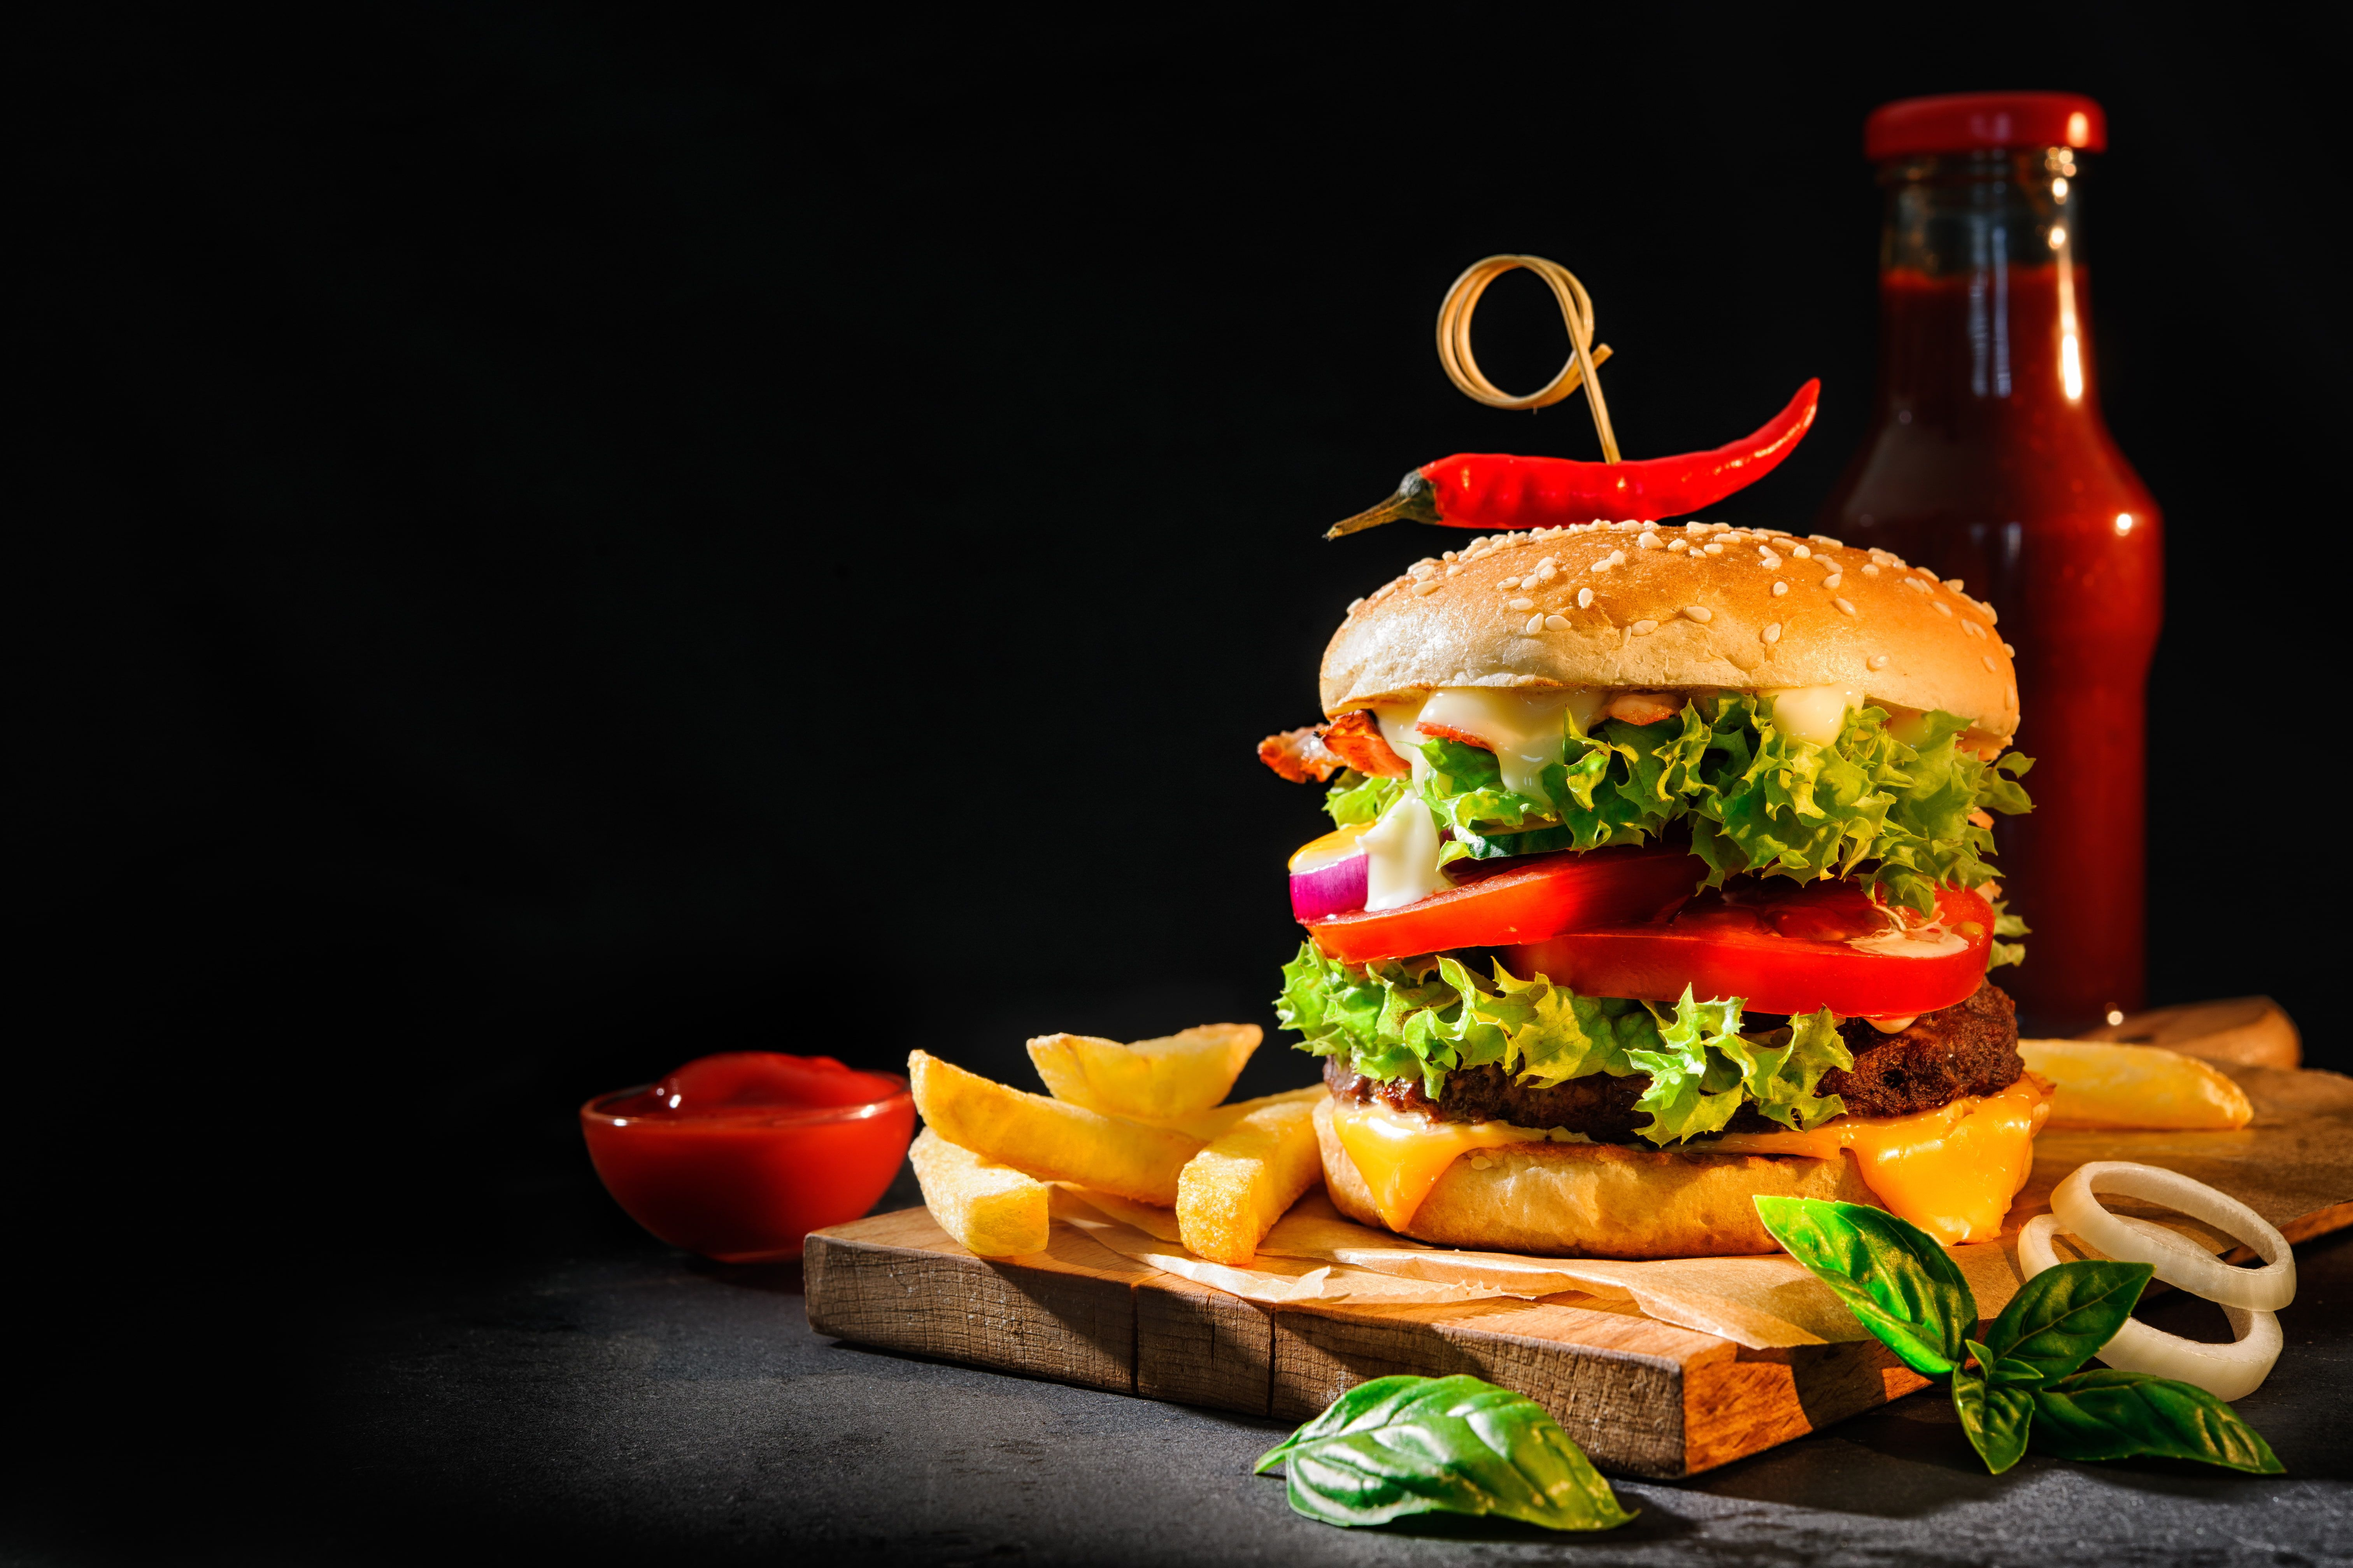
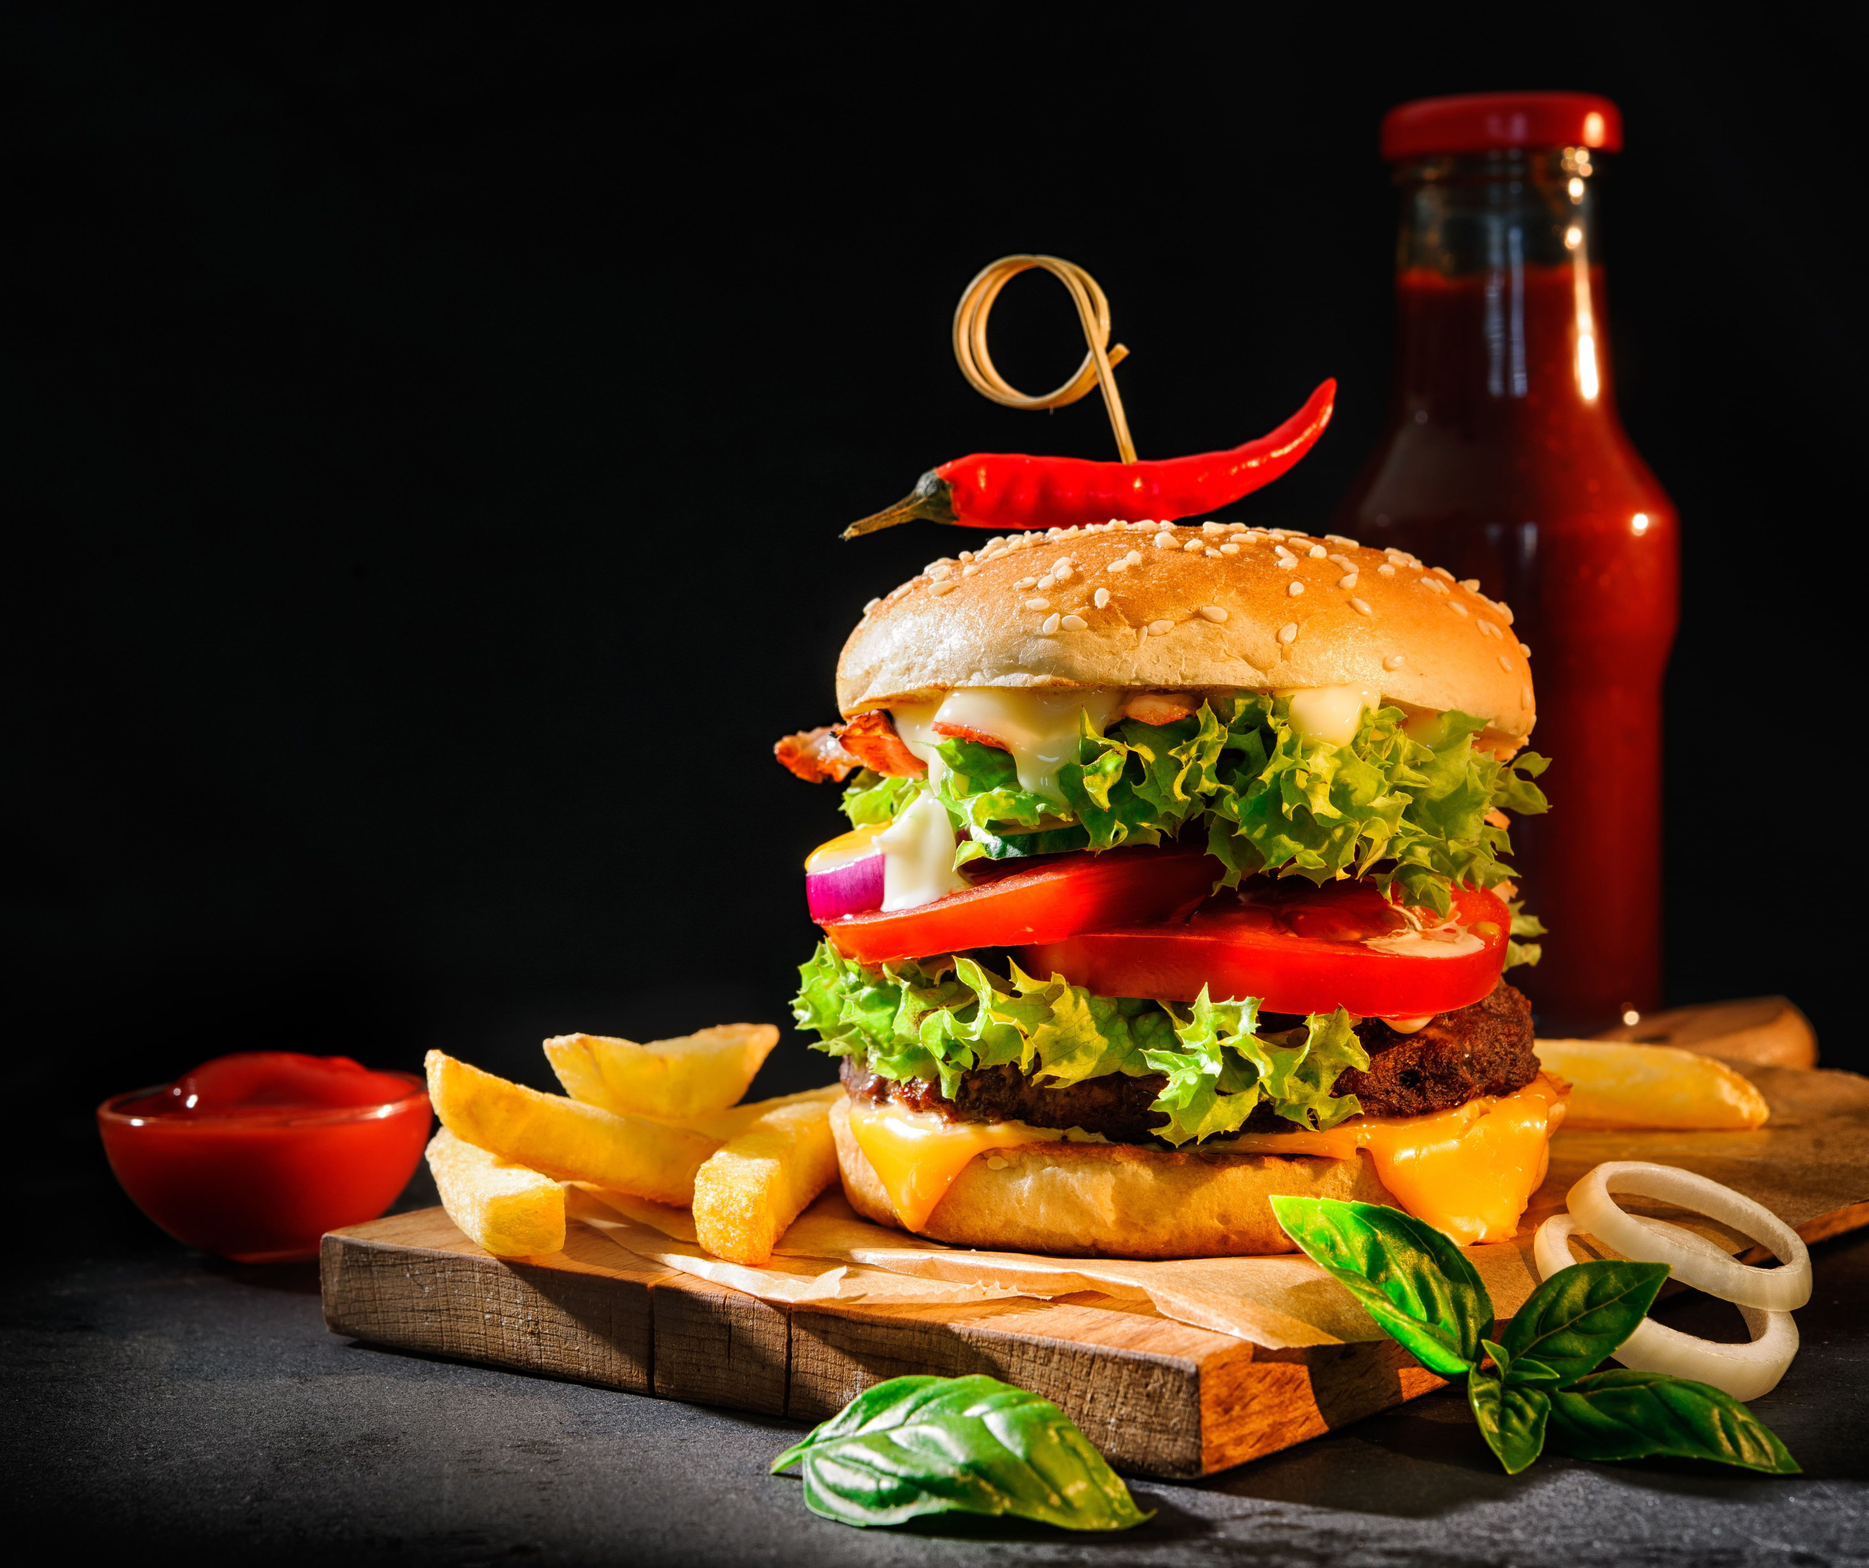
Completed header with responsive design and added bootstrap in the project

diff --git a/src/container/header/Header.jsx b/src/container/header/Header.jsx
@@ -1,18 +1,33 @@
 import "./header.css";
 import React from "react";
 import { Subheader } from "../../components";
+import { images } from "../../constants";
 
 const Header = () => {
   return (
     <>
-      <div className="app-header content_width section_padding">
-        <div className="app-header-info">
-          <Subheader
-            title="fill your hunger with cheesy classic burger"
-            text="Don't resist when your stomach is asking you, just get what he wants"
-          />
+      <div className="app-header ">
+        <div className="app-header-wrapper content_width section_padding">
+          <div className="app-header-info">
+            <Subheader title="Explore our new taste" />
+            <h1>
+              Eat burger<br></br> and
+              <br /> destroy your hunger
+            </h1>
+            <p>
+              Every day of week explore with us the new flavour that make you
+              crave for each bite
+            </p>
+            <button className="btn btn-outline-light">Explore our Menu</button>
+          </div>
+          <div className="app-header-image">
+            <img
+              src={images.burgerCombo}
+              alt="burgerCombo"
+              className="fancy-borders"
+            />
+          </div>
         </div>
-        <div className="app-header-image"></div>
       </div>
     </>
   );

diff --git a/src/components/navbar/Navbar.jsx b/src/components/navbar/Navbar.jsx
@@ -34,11 +34,18 @@ function Navbar() {
             <a href="#">Login</a>&nbsp;|&nbsp;<a href="#">Register</a>
           </div>
           <div className="navbar-small-screen">
-            {<FaHamburger size="28px" onClick={() => setToggleMenu(true)} />}
+            {
+              <FaHamburger
+                size="28px"
+                color="white"
+                onClick={() => setToggleMenu(true)}
+              />
+            }
             {toggleMenu && (
               <div className="navbar-small-screen-overlay">
                 <RxCross1
                   size="28px"
+                  color="white"
                   className={newLocal}
                   onClick={() => setToggleMenu(false)}
                 />
@@ -57,6 +64,12 @@ function Navbar() {
                   </li>
                   <li>
                     <a href="#">Contact</a>
+                  </li>
+                  <li>
+                    <a href="#">Login</a>
+                  </li>
+                  <li>
+                    <a href="#">Register</a>
                   </li>
                 </ul>
               </div>

diff --git a/src/container/header/header.css b/src/container/header/header.css
@@ -1,5 +1,42 @@
 .app-header {
+  background-color: black;
+  padding: 30px 0;
+  color: white;
+}
+.app-header-wrapper {
   display: grid;
   grid-template-columns: 1fr 1fr;
-  grid-gap: 30px;
+  grid-gap: 80px;
+  align-items: center;
+}
+.app-header-wrapper h1 {
+  color: #f1de60;
+  line-height: 60px;
+  font-size: 3rem;
+  letter-spacing: 2px;
+  padding-bottom: 20px;
+  text-transform: uppercase;
+}
+.app-header-wrapper p {
+  margin-bottom: 20px;
+}
+p {
+  margin-top: 20px;
+}
+.app-header-image {
+  width: 100%;
+  text-align: center;
+}
+.app-header-image img {
+  width: 80%;
+}
+@media screen and (max-width: 850px) {
+  .app-header-wrapper h1 {
+    font-size: 2rem;
+  }
+}
+@media screen and (max-width: 640px) {
+  .app-header-wrapper {
+    grid-template-columns: 100%;
+  }
 }

diff --git a/src/components/navbar/navbar.css b/src/components/navbar/navbar.css
@@ -15,7 +15,7 @@
   align-items: center;
 }
 .app-navbar-logo img {
-  width: 150px;
+  width: 160px;
 }
 .app-navbar-wrapper .app-navbar-links {
   flex: 1;
@@ -58,9 +58,17 @@
   flex-direction: column;
   align-items: center;
   padding: 0;
+  margin: none !important;
 }
 .app-navbar-small-screen-links li {
   line-height: 50px;
+  width: 50%;
+  text-align: center;
+}
+.app-navbar-small-screen-links li:nth-child(6) {
+  border-top: 1px solid grey;
+  padding-top: 5px;
+  margin-top: 5px;
 }
 .app-navbar-small-screen-links li a {
   font-size: 30px;
@@ -86,5 +94,8 @@
   }
   .app-navbar-links {
     display: none !important;
+  }
+  .app-navbar-login-register {
+    display: none;
   }
 }

diff --git a/src/components/subheader/Subheader.jsx b/src/components/subheader/Subheader.jsx
@@ -1,12 +1,11 @@
 import "./subheader.css";
 import React from "react";
 
-function Subheader({ title, text }) {
+function Subheader({ title }) {
   return (
     <div className="app-subheader">
-      <h1 className="subheader-title">{title}</h1>
-      <p className="subheader-text">{text}</p>
-      <div className="subheader-btn-name"></div>
+      <p>{title}</p>
+      <div className="box"></div>
     </div>
   );
 }

diff --git a/src/main.jsx b/src/main.jsx
@@ -1,7 +1,8 @@
 import React from "react";
 import ReactDOM from "react-dom/client";
-import App from "./App.jsx";
+import "../node_modules/bootstrap/dist/css/bootstrap.min.css";
 import "./index.css";
+import App from "./App.jsx";
 
 ReactDOM.createRoot(document.getElementById("root")).render(
   <React.StrictMode>

diff --git a/src/components/subheader/subheader.css b/src/components/subheader/subheader.css
@@ -1,0 +1,13 @@
+.app-subheader {
+  line-height: 8px;
+  margin-bottom: 20px;
+}
+.box {
+  width: 15%;
+  height: 4px;
+  background-color: #91853a;
+}
+.app-subheader p {
+  font-family: Georgia, "Times New Roman", Times, serif;
+  margin-bottom: 14px;
+}

diff --git a/src/index.css b/src/index.css
@@ -4,7 +4,7 @@
   --gold_color: #d1b000;
 }
 html {
-  background-color: rgb(27, 26, 26);
+  background-color: black !important;
 }
 
 a {
@@ -18,6 +18,9 @@ a:hover {
 
 li {
   list-style: none;
+}
+ul {
+  margin: 0;
 }
 
 body {

diff --git a/src/App.css b/src/App.css
@@ -5,3 +5,8 @@
   width: 1200px;
   margin: 0 auto;
 }
+.fancy-borders {
+  border: 6px solid #0000;
+  border-radius: 4px;
+  background: repeating-conic-gradient(#0000 0 25%, #91853a 0 50%) border-box;
+}

diff --git a/src/constants/images.js b/src/constants/images.js
@@ -1,2 +1,3 @@
 import logo from "../assets/logo.png";
-export default { logo };
+import burgerCombo from "../assets/burgerCombo.jpeg";
+export default { logo, burgerCombo };
